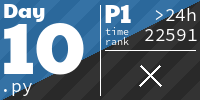
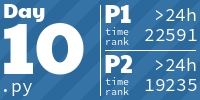
[2019/10] p2 solved

diff --git a/2019/10/script.py b/2019/10/script.py
@@ -9,6 +9,8 @@ def main():
     asteroids = list(grid.find_all('#'))
 
     most_seen = 0
+    best_asteroid = None
+    best_angles = {}
     for asteroid in asteroids:
         angles = defaultdict(list)
         for other in asteroids:
@@ -21,8 +23,27 @@ def main():
 
         if len(angles) > most_seen:
             most_seen = len(angles)
+            best_asteroid = asteroid
+            best_angles = angles
 
-    print('p1:', most_seen)
+    print('p1:', most_seen, best_asteroid)
+
+    angles = sorted(best_angles.keys())
+    vaporised = 0
+    last_vaporised = None
+    empty = []
+    while vaporised != 200:
+        for angle in angles:
+            if best_angles[angle]:
+                last_vaporised = Vec2(best_angles[angle].pop(0))
+                vaporised += 1
+                if vaporised == 200:
+                    break
+                if not best_angles[angle]:
+                    empty.append(angle)
+        for angle in empty:
+            del best_angles[angle]
+    print('p2:', last_vaporised.x * 100 + last_vaporised.y, last_vaporised)
 
 
 if __name__ == "__main__":

diff --git a/README.md b/README.md
@@ -129,7 +129,7 @@ My solutions to the yearly Advents of Code
   <img src=".aoc_tiles/tiles/2022/15.png" width="161px">
 </a>
 <h1 align="center">
-  2019 - 19 ⭐
+  2019 - 20 ⭐
 </h1>
 <a href="2019/1/script.py">
   <img src=".aoc_tiles/tiles/2019/01.png" width="161px">
